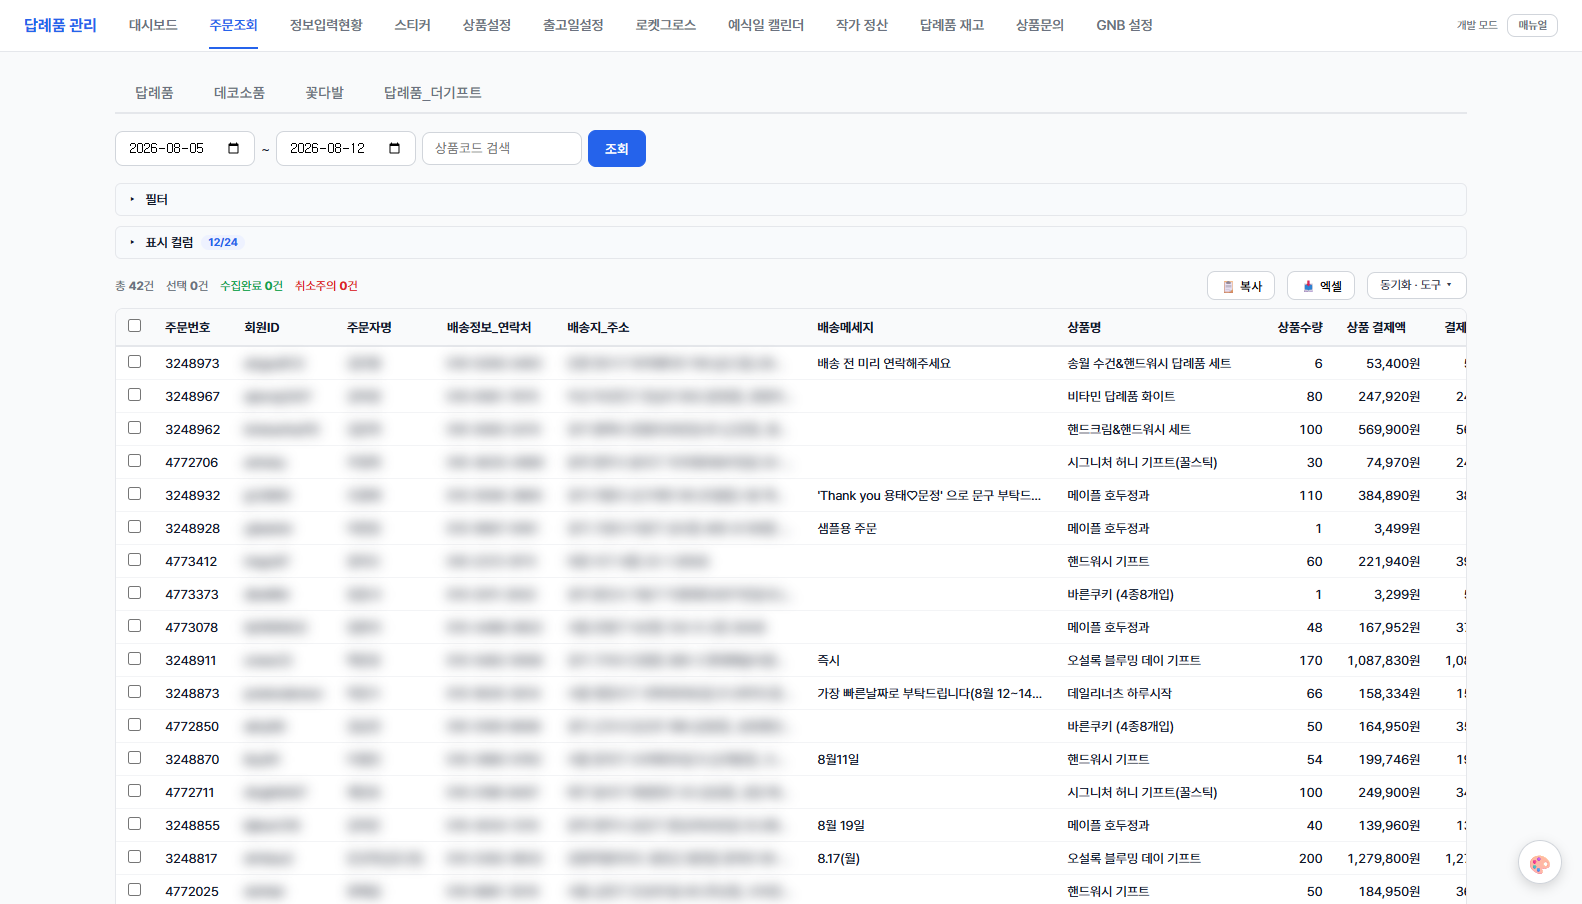
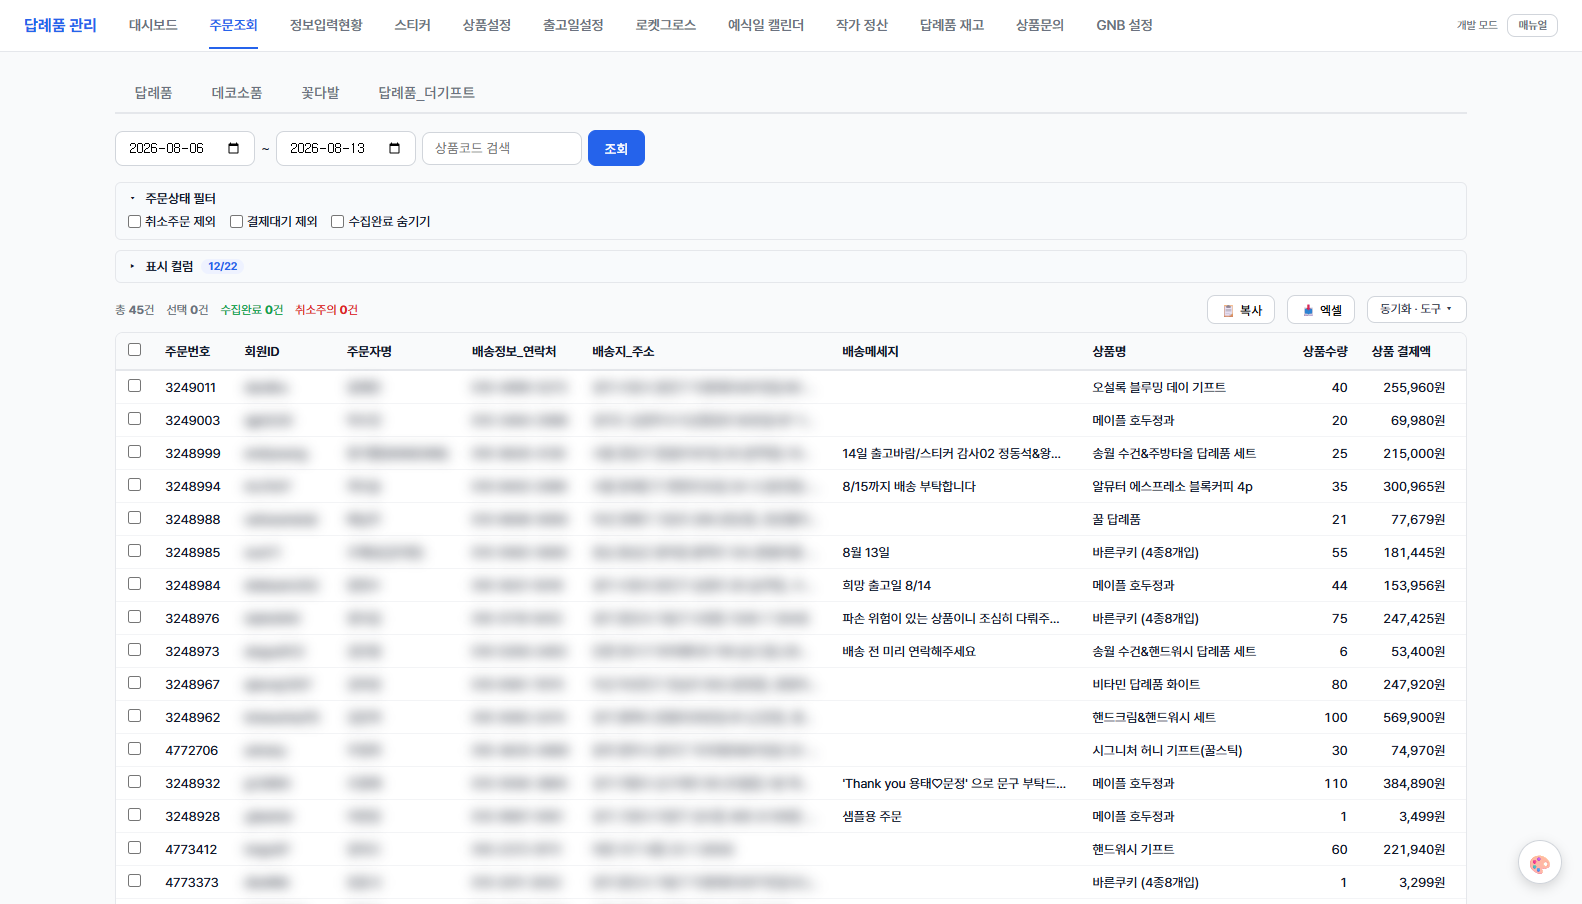
feat: 주문조회 — 주문상태 필터와 주문사이트 필터를 별도 구역으로 분리
한 '필터' 구역에 제외 옵션(취소/결제대기/수집완료)과 채널 선택이 섞여 있어
성격이 다른 두 가지를 함께 펼쳐 봐야 했다. 각각 접을 수 있게 나눈다.

· 주문상태 필터 — 배지 '제외 N'
· 주문사이트 필터 — 배지 'N/8' (전부 켠 기본 상태에서는 배지를 숨긴다)

주문사이트 구역은 답례품 카테고리에서만 노출한다. 이때 감추는 대상을 안쪽
#ord-site-filter 가 아니라 바깥 details 로 바꿨고, 필터 적용 여부를 판정하는
getFilteredOrders 도 같은 요소를 보게 맞췄다 — 안쪽 display 로 판정하던 코드를
그대로 두면 데코·꽃다발 탭에서 사이트 필터가 살아나 전부 걸러질 수 있었다.

매뉴얼 4장 설명·스크린샷 갱신.

diff --git a/pricing-prototype/daeryepum/index.html b/pricing-prototype/daeryepum/index.html
@@ -1316,10 +1316,11 @@ nav.nav-loading a[href^="#"] {
   </div>
 
   <!-- 필터 — 기본 접힘. 걸린 조건 수를 배지로 보여 접어 둬도 놓치지 않게 한다. -->
+  <!-- 주문상태 필터 — 무엇을 빼고 볼지 (주문 자체의 상태) -->
   <details class="ord-sec" id="ord-sec-filter">
-    <summary>필터 <span class="ord-badge" id="ord-filter-badge" style="display:none"></span></summary>
+    <summary>주문상태 필터 <span class="ord-badge" id="ord-filter-badge" style="display:none"></span></summary>
     <div class="ord-sec-body">
-      <div style="display:flex;gap:14px;align-items:center;flex-wrap:wrap;margin-bottom:8px">
+      <div style="display:flex;gap:14px;align-items:center;flex-wrap:wrap">
         <label style="font-size:13px;cursor:pointer;display:flex;align-items:center;gap:4px">
           <input type="checkbox" id="exclude-cancel" onchange="renderOrderTable()"> 취소주문 제외
         </label>
@@ -1330,10 +1331,15 @@ nav.nav-loading a[href^="#"] {
           <input type="checkbox" id="hide-collected" onchange="renderOrderTable()"> 수집완료 숨기기
         </label>
       </div>
-  <!-- 주문사이트 필터 (체크박스 그룹) — 답례품 카테고리 전용. 데코/꽃다발/더기프트 탭에서는 숨김.
-       초기값 flex (default currentCategory='daeryepum'). switchCategory 가 카테고리에 따라 조정. -->
-  <div id="ord-site-filter" style="display:flex;gap:14px;align-items:center;padding:9px 12px;background:#f8fafc;border:1px solid var(--gray-200);border-radius:6px;margin-bottom:10px;font-size:13px;flex-wrap:wrap">
-    <span style="color:var(--gray-600);font-weight:500">주문사이트:</span>
+    </div>
+  </details>
+
+  <!-- 주문사이트 필터 — 어느 채널을 볼지. 답례품 카테고리 전용이라 구역 자체를 카테고리에 따라 감춘다
+       (switchCategory 가 #ord-sec-site 의 display 를 조정). -->
+  <details class="ord-sec" id="ord-sec-site">
+    <summary>주문사이트 필터 <span class="ord-badge" id="ord-site-badge" style="display:none"></span></summary>
+    <div class="ord-sec-body">
+  <div id="ord-site-filter" style="display:flex;gap:14px;align-items:center;font-size:13px;flex-wrap:wrap">
     <label style="display:inline-flex;align-items:center;gap:4px;cursor:pointer">
       <input type="checkbox" data-ord-site="card" checked onchange="renderOrderTable()"> 바른손카드
     </label>
@@ -4504,8 +4510,10 @@ function switchCategory(cat) {
   if (bhgBackfillBtn) bhgBackfillBtn.style.display = showCsvUpload ? '' : 'none';
   // 주문사이트 필터 — 답례품 카테고리 (여러 채널 UNION) 에서만 노출.
   //   데코/꽃다발은 채널 단일이라 불필요, 더기프트는 MANUAL 만이라 불필요.
-  const siteFilter = document.getElementById('ord-site-filter');
-  if (siteFilter) siteFilter.style.display = showMarketplaceSync ? 'flex' : 'none';
+  //   구역(details) 째로 감춘다. 안쪽 #ord-site-filter 는 display 를 건드리지 않는다 —
+  //   getFilteredOrders 가 그 값으로 '필터가 살아 있는가' 를 판정하기 때문.
+  const siteSec = document.getElementById('ord-sec-site');
+  if (siteSec) siteSec.style.display = showMarketplaceSync ? '' : 'none';
   _ordUpdateFilterBadge();
   loadOrders();
 }
@@ -4517,7 +4525,7 @@ const ORD_SEC_KEY = 'ord-sections-open';
 function _ordSecRestore() {
   let open = {};
   try { open = JSON.parse(localStorage.getItem(ORD_SEC_KEY) || '{}'); } catch {}
-  ['ord-sec-filter', 'ord-sec-cols'].forEach(id => {
+  ['ord-sec-filter', 'ord-sec-site', 'ord-sec-cols'].forEach(id => {
     const el = document.getElementById(id);
     if (!el) return;
     el.open = !!open[id];
@@ -4541,13 +4549,17 @@ function _ordUpdateFilterBadge() {
   if (badge) {
     const excl = ['exclude-cancel', 'exclude-pending', 'hide-collected']
       .filter(id => document.getElementById(id)?.checked).length;
+    badge.textContent = excl ? `제외 ${excl}` : '';
+    badge.style.display = excl ? '' : 'none';
+  }
+  const sb = document.getElementById('ord-site-badge');
+  if (sb) {
     const sites = [...document.querySelectorAll('#ord-site-filter input[data-ord-site]')];
-    const off = sites.filter(cb => !cb.checked).length;
-    const parts = [];
-    if (excl) parts.push(`제외 ${excl}`);
-    if (off) parts.push(`사이트 −${off}`);
-    badge.textContent = parts.join(' · ');
-    badge.style.display = parts.length ? '' : 'none';
+    const on = sites.filter(cb => cb.checked).length;
+    // 전부 켠 상태가 기본이라 그때는 배지를 숨긴다 — 좁혀 봤을 때만 눈에 띄면 된다
+    const narrowed = sites.length && on < sites.length;
+    sb.textContent = narrowed ? `${on}/${sites.length}` : '';
+    sb.style.display = narrowed ? '' : 'none';
   }
   const cb = document.getElementById('ord-cols-badge');
   if (cb) {
@@ -4683,7 +4695,9 @@ function getFilteredOrders() {
     { key: 'cafe24',  match: o => o.order_type === 'CAFE24' },
     { key: 'manual',  match: o => o.order_type === 'MANUAL' },
   ];
-  const siteFilterVisible = document.getElementById('ord-site-filter')?.style.display !== 'none';
+  // 구역이 감춰진 카테고리(데코·꽃다발·더기프트)에서는 사이트 필터를 적용하지 않는다.
+  //   답례품 외 카테고리는 채널이 하나뿐이라 필터가 의미 없고, 켜 두면 전부 걸러질 수 있다.
+  const siteFilterVisible = document.getElementById('ord-sec-site')?.style.display !== 'none';
   const activeOrdSiteKeys = siteFilterVisible
     ? new Set([...document.querySelectorAll('#ord-site-filter input:checked')].map(cb => cb.dataset.ordSite))
     : null;

diff --git a/pricing-prototype/daeryepum/manual.html b/pricing-prototype/daeryepum/manual.html
@@ -167,16 +167,20 @@ code{background:var(--gray-100);padding:2px 6px;border-radius:4px;font-size:12px
 </ul>
 
 <h2 id="orders">4. 주문조회</h2>
-<div class="img-wrap"><img src="manual-assets/orders.png" alt="주문조회"><div class="img-cap">주문조회 — 조회줄 / 필터 · 표시 컬럼(접힘) / 동작 버튼 · 동기화·도구 묶음</div></div>
+<div class="img-wrap"><img src="manual-assets/orders.png" alt="주문조회"><div class="img-cap">주문조회 — 조회줄 / 주문상태 · 주문사이트 · 표시 컬럼(접힘) / 동작 버튼 · 동기화·도구 묶음</div></div>
 <p>화면은 <b>쓰는 순서대로 3단</b>으로 나뉘어 있습니다. 자주 쓰지 않는 설정은 접혀 있고, 접은 상태는 다음에 들어와도 그대로 유지됩니다.</p>
 <ul>
   <li><b>1단 — 조회</b>: 기간 · 상품코드 검색 · [조회]. 매번 쓰는 것만 펼쳐져 있습니다.</li>
-  <li><b>2단 — 필터 / 표시 컬럼</b>(접힘): 제목줄을 누르면 열립니다. 걸린 필터가 있으면 제목 옆에 <code>제외 1 · 사이트 −1</code> 같은 배지가, 컬럼에는 <code>12/24</code>처럼 켜진 개수가 표시되므로 접어 둔 채로도 무엇이 걸려 있는지 보입니다.</li>
+  <li><b>2단 — 설정</b>(접힘): 성격이 다른 셋을 각각 따로 접어 둡니다.
+    <br>· <b>주문상태 필터</b> — 취소주문 제외 / 결제대기 제외 / 수집완료 숨기기
+    <br>· <b>주문사이트 필터</b> — 어느 채널을 볼지 (답례품 탭에서만 나옵니다)
+    <br>· <b>표시 컬럼</b> — 표에 띄울 열
+    <br>접어 둔 채로도 걸린 조건이 보이도록 제목 옆에 배지가 붙습니다 — 상태는 <code>제외 1</code>, 사이트는 <code>7/8</code>, 컬럼은 <code>12/22</code>.</li>
   <li><b>3단 — 동작</b>: 복사 · 엑셀 · (선택 시) 수집완료/수집해제는 표 바로 위에 그대로 있고, 채널 동기화·업로드·정리 도구는 <b>[동기화 · 도구]</b> 묶음 안으로 들어갔습니다.</li>
 </ul>
 <ul>
   <li><b>카테고리 탭</b>: 답례품 / 데코소품 / 꽃다발 / 답례품_더기프트</li>
-  <li><b>주문사이트 필터</b>(답례품 탭, 필터 안): 바른손카드 / 바른손몰 / 쿠팡 / 쿠팡 로켓그로스 / 네이버(바른손카드·테넷텐) / 정수당 등 채널별로 좁혀 봅니다.</li>
+  <li><b>주문사이트 필터</b>(답례품 탭 전용): 바른손카드 / 바른손몰 / 쿠팡 / 쿠팡 로켓그로스 / 네이버(바른손카드·테넷텐) / 정수당 / 바른손더기프트 채널별로 좁혀 봅니다. 데코소품·꽃다발·더기프트 탭은 채널이 하나뿐이라 이 구역이 아예 나오지 않습니다.</li>
   <li><b>쿠팡은 둘로 갈립니다</b> — <code>쿠팡</code>(판매자배송, 우리가 출고)과 <code>쿠팡 로켓그로스</code>(쿠팡 물류센터가 출고). 주문사이트 컬럼에도 그대로 표시됩니다.</li>
   <li><b>표시 컬럼</b>: 표에 표시할 컬럼을 체크박스로 선택합니다.</li>
   <li><b>수집복사</b>: 선택한 주문을 인쇄팀 전달용 시트 형식(23열)으로 클립보드에 복사합니다. 품목코드·박스컬러·스티커코드(수량)·문구가 포함됩니다.</li>
@@ -489,7 +493,7 @@ code{background:var(--gray-100);padding:2px 6px;border-radius:4px;font-size:12px
 
 <h2 id="faq">14. 자주 묻는 질문 (FAQ)</h2>
 <h4>Q. 특정 채널 주문이 안 보여요.</h4>
-<p>① 주문조회 → [동기화 · 도구]에서 해당 채널 동기화 버튼을 눌러보세요. ② 필터 안의 주문사이트·제외 조건이 걸려있는지 확인하세요 (필터 제목 옆 배지로 보입니다). ③ 그래도 없으면 채널 관리자(Wing/스마트스토어/카페24)에서 주문 상태를 확인 후 담당자에게 문의하세요.</p>
+<p>① 주문조회 → [동기화 · 도구]에서 해당 채널 동기화 버튼을 눌러보세요. ② 주문상태 필터·주문사이트 필터에 조건이 걸려있는지 확인하세요 (각 제목 옆 배지로 보입니다). ③ 그래도 없으면 채널 관리자(Wing/스마트스토어/카페24)에서 주문 상태를 확인 후 담당자에게 문의하세요.</p>
 <h4>Q. 스티커 문구가 화면에 안 보여요.</h4>
 <p>정보입력현황의 편집 버튼을 눌러 상세에서 확인하세요. 문구가 저장돼 있는데 목록에 안 보이면 새로고침 후에도 같은지 확인하고 담당자에게 알려주세요.</p>
 <h4>Q. 로켓그로스 주문이 정보입력현황에 안 보여요.</h4>
